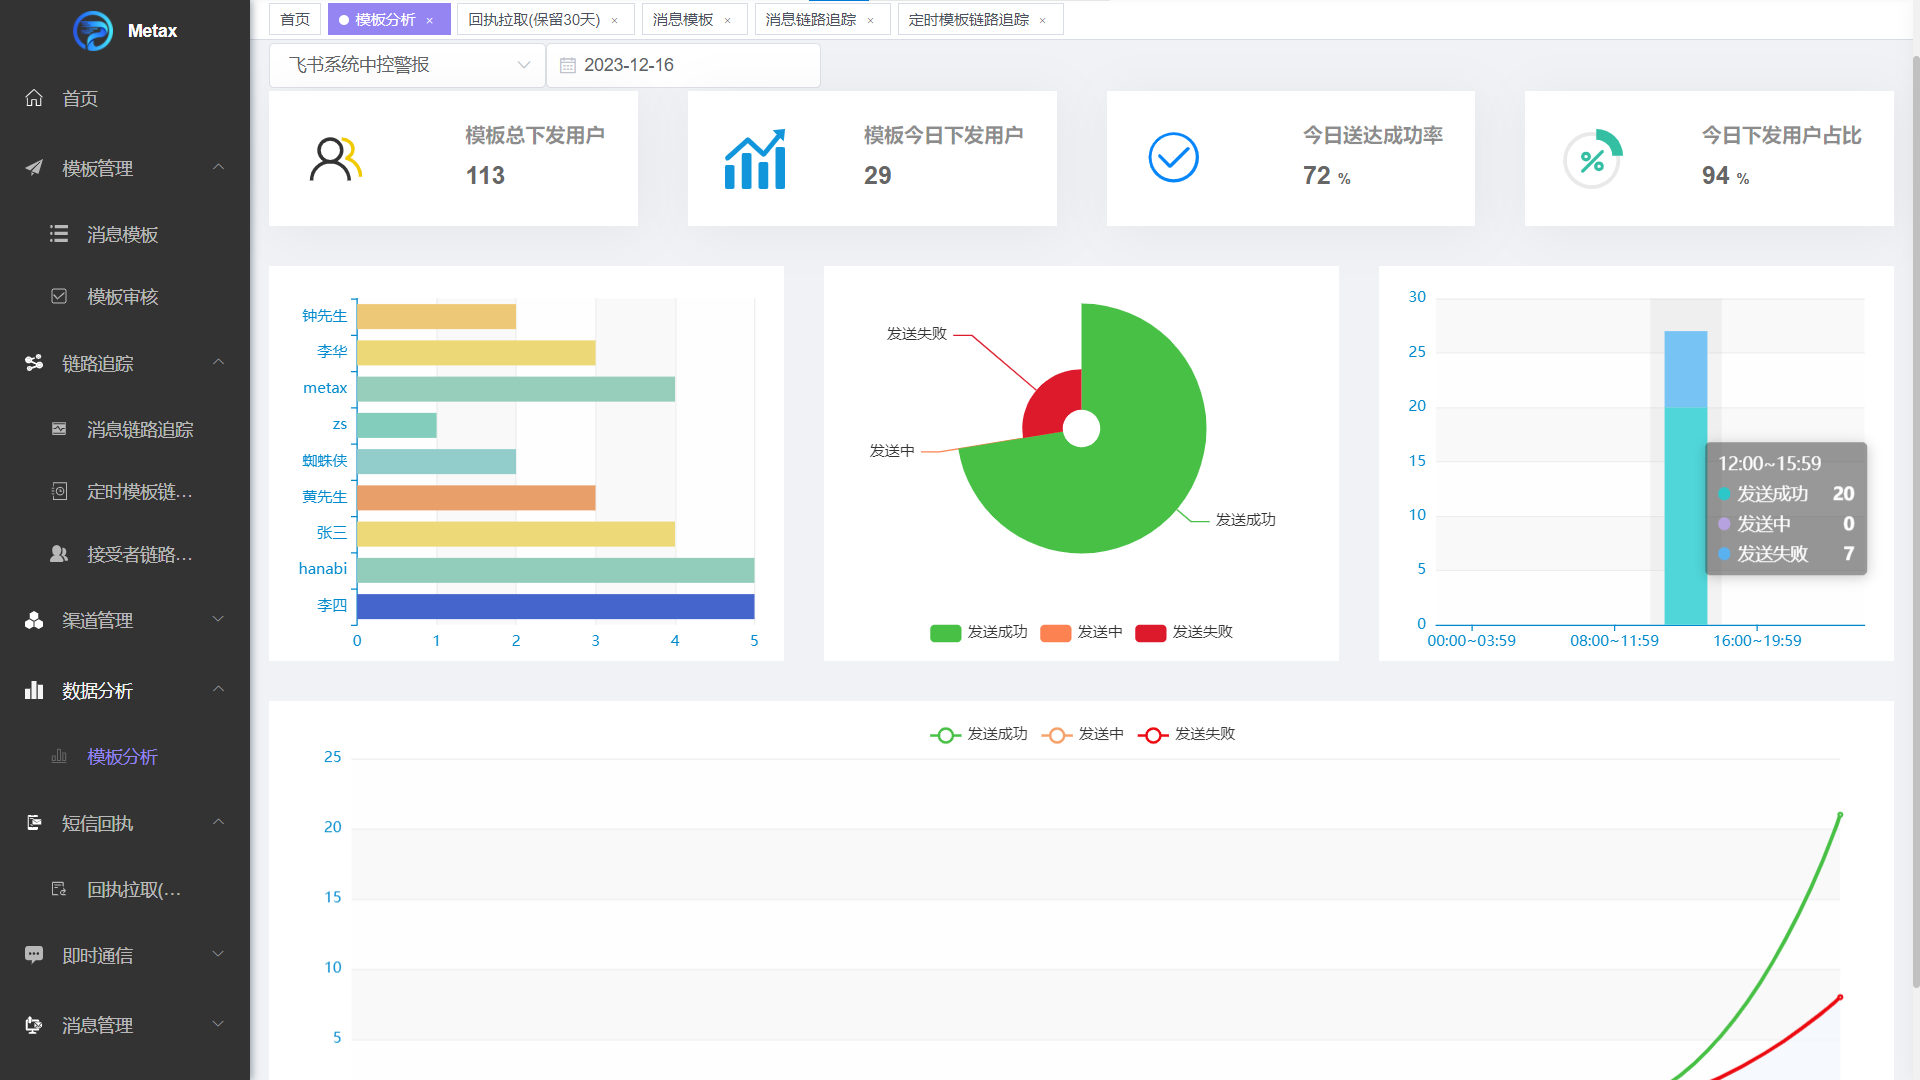
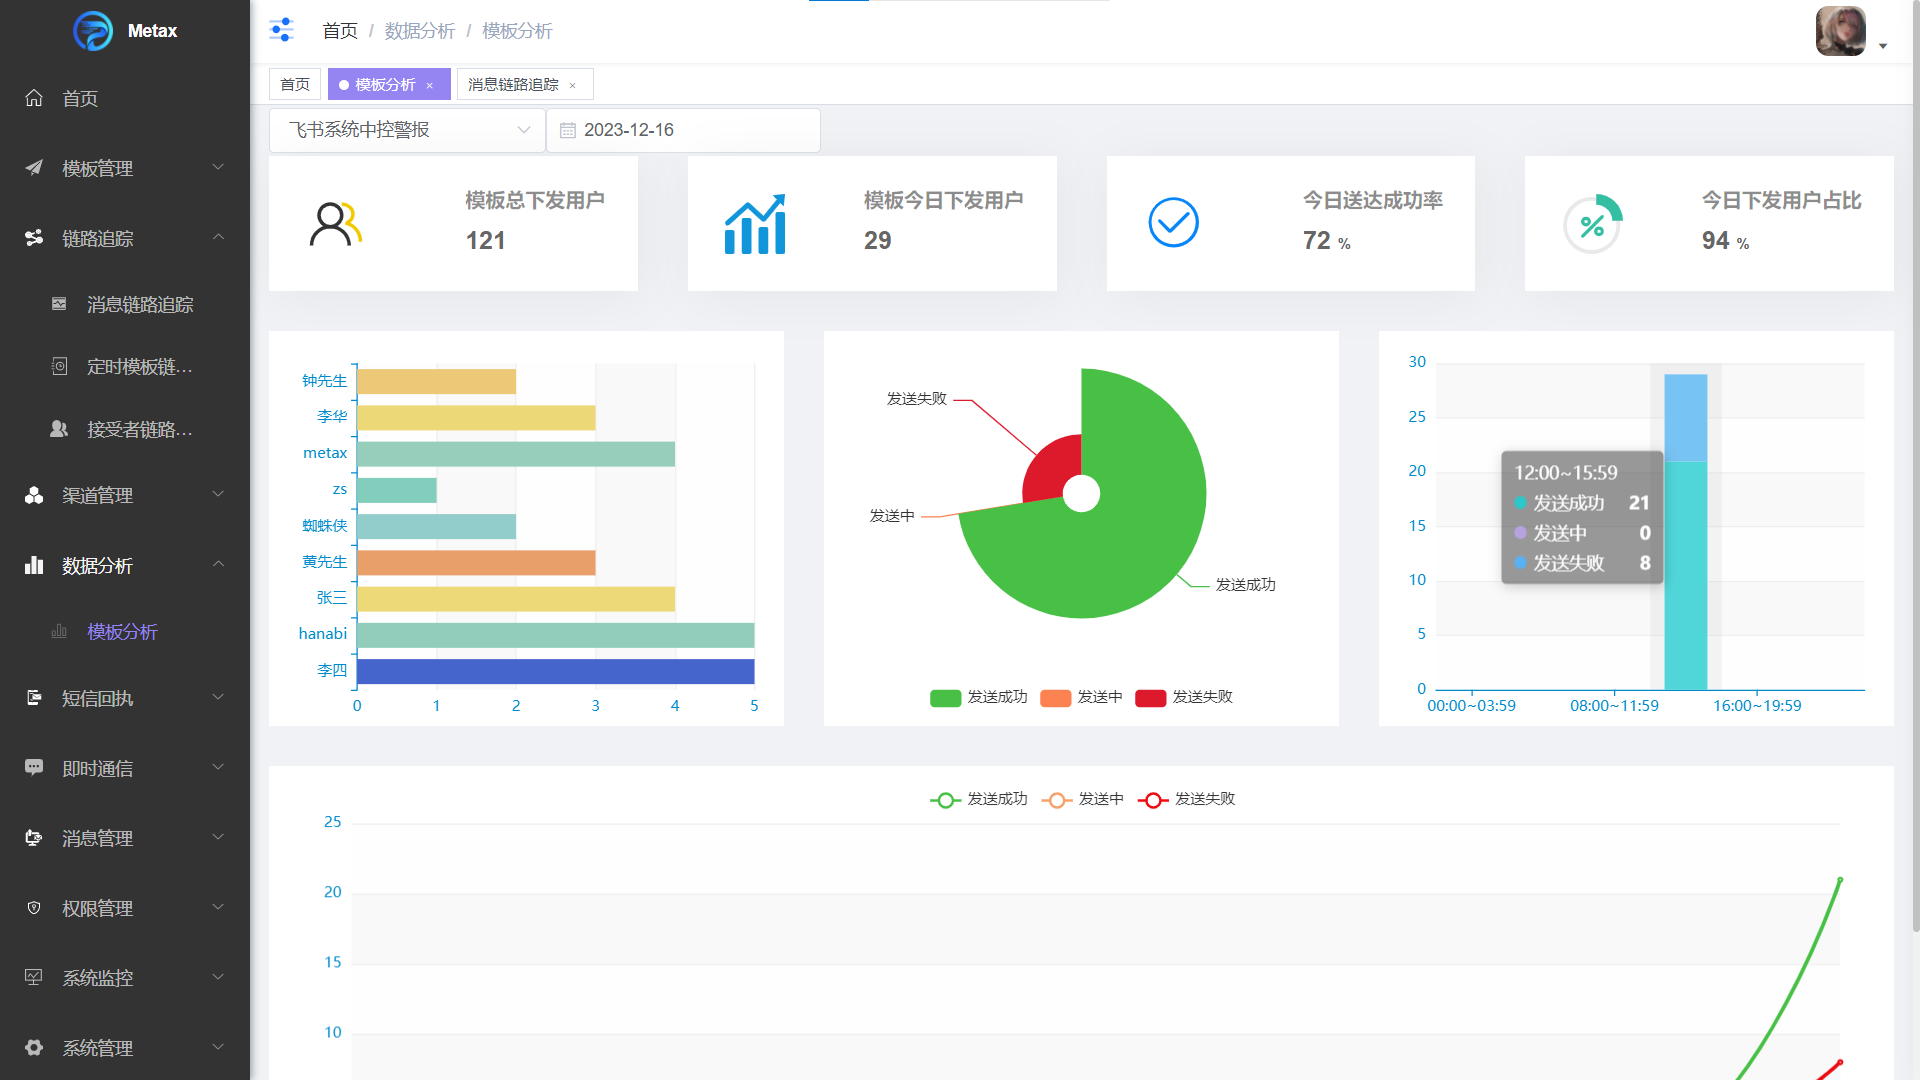
修复模板分析时间段统计异常

diff --git a/metax-web/src/main/java/com/metax/web/service/impl/TemplateEChartsDataServiceImpl.java b/metax-web/src/main/java/com/metax/web/service/impl/TemplateEChartsDataServiceImpl.java
@@ -317,19 +317,19 @@ public class TemplateEChartsDataServiceImpl implements TemplateEChartsDataServic
                     //统计指定日期发送成功、失败情况和发送中
                     if (MSG_SUCCESS.equals(sendTaskInfo.getMessageTemplate().getMsgStatus())) {
                         this.success += sendTaskInfo.getReceivers().size();
-                        computeListData(successList, sendTaskInfo.getSendStartTime());
+                        computeListData(successList, sendTaskInfo.getSendStartTime(), sendTaskInfo.getReceivers().size());
                         //统计模板的当天发送情况
                         templateStatus.put(MSG_SUCCESS, templateStatus.get(MSG_SUCCESS) + sendTaskInfo.getReceivers().size());
                     }
                     if (MSG_FAIL.equals(sendTaskInfo.getMessageTemplate().getMsgStatus())) {
                         this.fail += sendTaskInfo.getReceivers().size();
-                        computeListData(failList, sendTaskInfo.getSendStartTime());
+                        computeListData(failList, sendTaskInfo.getSendStartTime(), sendTaskInfo.getReceivers().size());
                         //统计模板的当天发送情况
                         templateStatus.put(MSG_FAIL, templateStatus.get(MSG_FAIL) + sendTaskInfo.getReceivers().size());
                     }
                     if (MSG_SENDING.equals(sendTaskInfo.getMessageTemplate().getMsgStatus())) {
                         this.sending += sendTaskInfo.getReceivers().size();
-                        computeListData(sendingList, sendTaskInfo.getSendStartTime());
+                        computeListData(sendingList, sendTaskInfo.getSendStartTime(), sendTaskInfo.getReceivers().size());
                         //统计模板的当天发送情况
                         templateStatus.put(MSG_SENDING, templateStatus.get(MSG_SENDING) + sendTaskInfo.getReceivers().size());
                     }
@@ -408,28 +408,28 @@ public class TemplateEChartsDataServiceImpl implements TemplateEChartsDataServic
      * @param map
      * @param time
      */
-    private void computeListData(Map<Integer, Integer> map, LocalDateTime time) {
+    private void computeListData(Map<Integer, Integer> map, LocalDateTime time, int num) {
         int hour = time.getHour();
         int interval = hour / 4; // 将24小时分成6个4小时的时间段
 
         switch (interval) {
             case 0:
-                map.put(0, map.get(0) + 1);
+                map.put(0, map.get(0) + num);
                 break;
             case 1:
-                map.put(1, map.get(1) + 1);
+                map.put(1, map.get(1) + num);
                 break;
             case 2:
-                map.put(2, map.get(2) + 1);
+                map.put(2, map.get(2) + num);
                 break;
             case 3:
-                map.put(3, map.get(3) + 1);
+                map.put(3, map.get(3) + num);
                 break;
             case 4:
-                map.put(4, map.get(4) + 1);
+                map.put(4, map.get(4) + num);
                 break;
             case 5:
-                map.put(5, map.get(5) + 1);
+                map.put(5, map.get(5) + num);
                 break;
         }
     }
